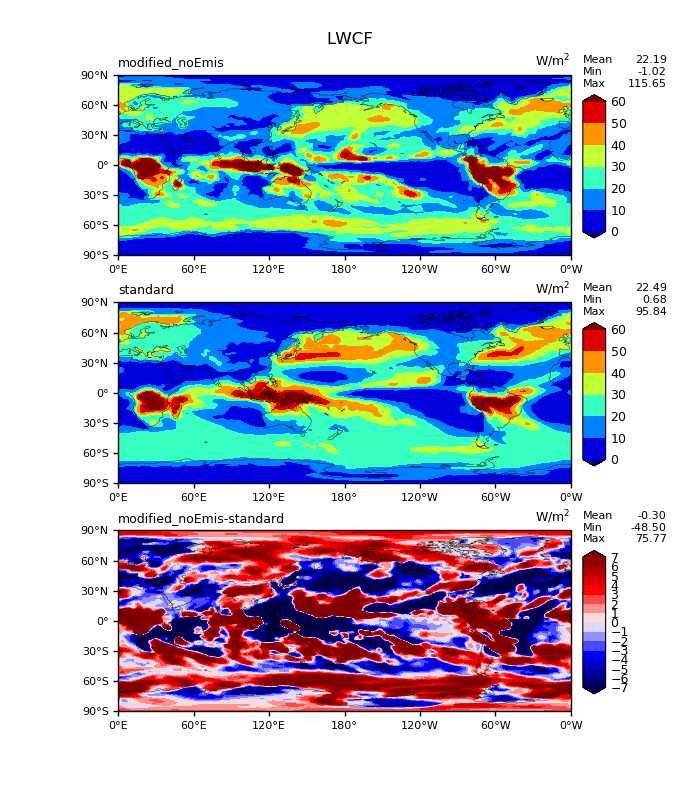
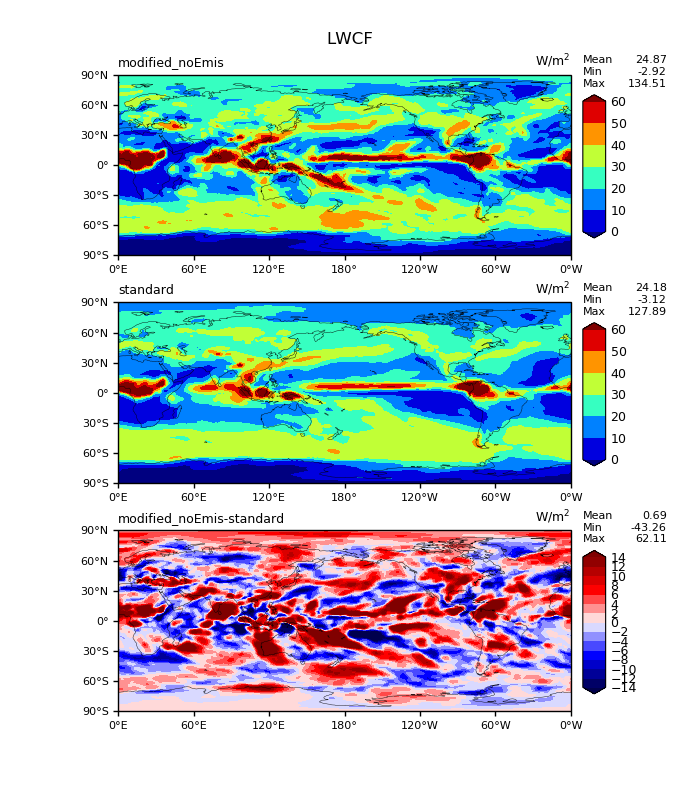
add monthly&seasonal switchs in get_climo.py

diff --git a/utils/get_climo.py b/utils/get_climo.py
@@ -21,84 +21,90 @@ def listToString(s):
 # The main program starts here.
 
 # Input 
-#caseid="E3SM_DECKv1b_H1.ne30"
-#monthly_data_path="./E3SM_DECKv1b_H1.ne30/remap_180x360"
-#caseid="E3SM_coupled_restart_20TR_Yr2000-emis_Scat.Year2000_2014"
-caseid="E3SMv2_offline_ICEFLAG5_noEmis"
+#caseid="E3SMv2_standard_PresSST_UMRadALLoff"
+caseid="E3SM_v2_UMRad_iceflag3_AMIP_ALLon"
 print(caseid)
 #monthly_data_path="/raid00/xianwen/E3SM_output/"+caseid+"/remap_180x360"
 monthly_data_path="/global/cscratch1/sd/xianwen/acme_scratch/cori-knl/"+caseid+"/remap_180x360/"
 #years=np.arange(0001,0004)
-years=np.array(["2000"])
+years=np.array(["0001"])
 #years=np.array(["2000","2001","2002","2003","2004","2005","2006","2007","2008","2009","2010","2011","2012","2013","2014"])
 # Output
 months_to_do=["01","02","03","04","05","06","07","08","09","10","11","12"]
 seasons_to_do=["ANN","DJF","MAM","JJA","SON"]
+do_monthly=True
+do_seasonal=True
 
 out_path=monthly_data_path+"../climo"
+
+if not os.path.exists(monthly_data_path):
+   print('PATH NOT FOUND: ', monthly_data_path)
+   exit()
 if not os.path.exists(out_path):
-     os.makedirs(out_path)
+   os.makedirs(out_path)
 
-# create list of all input files
-# Monthly climo
-for mon in months_to_do:
-    print("-- doing "+mon+"--")
-    list_file="list_"+mon+".txt"
-    if os.path.exists(list_file):
-        os.system("rm "+list_file)
-    for yr in years:
-        os.system("ls "+monthly_data_path+"/*cam.h0*"+str(yr)+"-"+mon+".nc|cat >>"+list_file)
-    #os.system("ls "+monthly_data_path+"/*"+mon+".nc >"+list_file)
-    with open(list_file) as f_obj:
-        lines=f_obj.readlines()
-    lists=listToString(lines)
-    
-    climo_file=caseid+"_climo_"+mon+".nc"
-    cmd="ncra "+lists+" "+out_path+"/"+climo_file
-    os.system(cmd)
-    os.system("mv "+list_file+" "+out_path+"/")
-# Seasonal and Annual climo
-for seasn in seasons_to_do:
-    print("-- doing "+seasn+"--")
-    list_file="list_"+seasn+".txt"
-    if seasn == "ANN":
-        mons_for_seasn=["01","02","03","04","05","06","07","08","09","10","11","12"]
-        if os.path.exists(list_file):
-            os.system("rm "+list_file)
-        for mons in mons_for_seasn:
-            os.system("ls "+out_path+"/*climo_"+mons+".nc|cat >>"+list_file)
-    elif seasn == "DJF":
-        mons_for_seasn=["12","01","02"]
-        if os.path.exists(list_file):
-            os.system("rm "+list_file)
-        for mons in mons_for_seasn:
-            os.system("ls "+out_path+"/*climo_"+mons+".nc|cat >>"+list_file)
-    elif seasn == "MAM":
-        mons_for_seasn=["03","04","05"]
-        if os.path.exists(list_file):
-            os.system("rm "+list_file)
-        for mons in mons_for_seasn:
-            os.system("ls "+out_path+"/*climo_"+mons+".nc|cat >>"+list_file)
-    elif seasn == "JJA":
-        mons_for_seasn=["06","07","08"]
-        if os.path.exists(list_file):
-            os.system("rm "+list_file)
-        for mons in mons_for_seasn:
-            os.system("ls "+out_path+"/*climo_"+mons+".nc|cat >>"+list_file)
-    elif seasn == "SON":
-        mons_for_seasn=["09","10","11"]
-        if os.path.exists(list_file):
-            os.system("rm "+list_file)
-        for mons in mons_for_seasn:
-            os.system("ls "+out_path+"/*climo_"+mons+".nc|cat >>"+list_file)
-
-    with open(list_file) as f_obj:
-        lines=f_obj.readlines()
-    lists=listToString(lines)
-    
-    climo_file=caseid+"_climo_"+seasn+".nc"
-    cmd="ncra "+lists+" "+out_path+"/"+climo_file
-    os.system(cmd)
-    os.system("mv "+list_file+" "+out_path+"/")
+if do_monthly:
+   # create list of all input files
+   # Monthly climo
+   for mon in months_to_do:
+       print("-- doing "+mon+"--")
+       list_file="list_"+mon+".txt"
+       if os.path.exists(list_file):
+           os.system("rm "+list_file)
+       for yr in years:
+           os.system("ls "+monthly_data_path+"/*cam.h0*"+str(yr)+"-"+mon+".nc|cat >>"+list_file)
+       #os.system("ls "+monthly_data_path+"/*"+mon+".nc >"+list_file)
+       with open(list_file) as f_obj:
+           lines=f_obj.readlines()
+       lists=listToString(lines)
+       
+       climo_file=caseid+"_climo_"+mon+".nc"
+       cmd="ncra "+lists+" "+out_path+"/"+climo_file
+       os.system(cmd)
+       os.system("mv "+list_file+" "+out_path+"/")
+if do_seasonal:
+   # Seasonal and Annual climo
+   for seasn in seasons_to_do:
+       print("-- doing "+seasn+"--")
+       list_file="list_"+seasn+".txt"
+       if seasn == "ANN":
+           mons_for_seasn=["01","02","03","04","05","06","07","08","09","10","11","12"]
+           if os.path.exists(list_file):
+               os.system("rm "+list_file)
+           for mons in mons_for_seasn:
+               os.system("ls "+out_path+"/*climo_"+mons+".nc|cat >>"+list_file)
+       elif seasn == "DJF":
+           mons_for_seasn=["12","01","02"]
+           if os.path.exists(list_file):
+               os.system("rm "+list_file)
+           for mons in mons_for_seasn:
+               os.system("ls "+out_path+"/*climo_"+mons+".nc|cat >>"+list_file)
+       elif seasn == "MAM":
+           mons_for_seasn=["03","04","05"]
+           if os.path.exists(list_file):
+               os.system("rm "+list_file)
+           for mons in mons_for_seasn:
+               os.system("ls "+out_path+"/*climo_"+mons+".nc|cat >>"+list_file)
+       elif seasn == "JJA":
+           mons_for_seasn=["06","07","08"]
+           if os.path.exists(list_file):
+               os.system("rm "+list_file)
+           for mons in mons_for_seasn:
+               os.system("ls "+out_path+"/*climo_"+mons+".nc|cat >>"+list_file)
+       elif seasn == "SON":
+           mons_for_seasn=["09","10","11"]
+           if os.path.exists(list_file):
+               os.system("rm "+list_file)
+           for mons in mons_for_seasn:
+               os.system("ls "+out_path+"/*climo_"+mons+".nc|cat >>"+list_file)
+   
+       with open(list_file) as f_obj:
+           lines=f_obj.readlines()
+       lists=listToString(lines)
+       
+       climo_file=caseid+"_climo_"+seasn+".nc"
+       cmd="ncra "+lists+" "+out_path+"/"+climo_file
+       os.system(cmd)
+       os.system("mv "+list_file+" "+out_path+"/")
 print("----- all finished -----")
 	

diff --git a/d1_lon_lat_contour_model_vs_model_sgl.py b/d1_lon_lat_contour_model_vs_model_sgl.py
@@ -24,14 +24,14 @@ from get_parameters import get_area_mean_min_max
 ctl_name="standard" #os.environ["ctl_name"]
 exp_name="modified_noEmis" #os.environ["exp_name"]
 fpath_ctl='/global/cscratch1/sd/xianwen/acme_scratch/cori-knl/E3SMv2_standard_PresSST_UMRadALLoff/climo/'
-fpath_exp='/global/cscratch1/sd/xianwen/acme_scratch/cori-knl/E3SMv2_UMRad_iceflag1_noEmis/remap_180x360/'
+fpath_exp='/global/cscratch1/sd/xianwen/acme_scratch/cori-knl/E3SM_v2_UMRad_iceflag3_AMIP_ALLon/climo/'
 
 #fpath_exp="../../E3SM_output/E3SM_coupled_restart_20TR_Yr2000-Scat.Year2000_2014/climo/"
  
 #f1=fpath_ctl+"E3SMv2_offline_ICEFLAG1_full2_noEmis_climo_ANN.nc"
 #f2=fpath_exp+"E3SMv2_offline_ICEFLAG1_full2_noEmis_climo_ANN.nc"
-f1=fpath_ctl+"E3SMv2_standard_PresSST_UMRadALLoff_climo_01.nc"
-f2=fpath_exp+"E3SMv2_UMRad_iceflag1_noEmis.cam.h0.0001-01.nc"
+f1=fpath_ctl+"E3SMv2_standard_PresSST_UMRadALLoff_climo_ANN.nc"
+f2=fpath_exp+"E3SM_v2_UMRad_iceflag3_AMIP_ALLon_climo_ANN.nc"
 #f2=fpath_exp+"E3SM_coupled_restart_20TR_Yr2000-Scat.Year2000_2014_climo_ANN.nc"
 
 #f1=fpath_ctl+"solar_TSIS_cesm211_standard-ETEST-f19_g17-ens1.cam.h0.0001-01.nc"
@@ -50,7 +50,7 @@ lev=file_ctl.variables["lev"]
 varnm="LWCF"
 #varnm_off="LWCF_OFF"  #offline computation
 units=r"W/m$^2$"
-figure_name="lat_lon_"+varnm+"_"+exp_name+"-"+ctl_name+"_ICEFLAG1_full2.png"
+figure_name="lat_lon_"+varnm+"_"+exp_name+"-"+ctl_name+"_ICEFLAG3_ANN.png"
 #figure_name="lat_lon_"+varnm+"500mb_"+exp_name+"-"+ctl_name+".png"
 
 #lev250=np.min(np.where(lev[:]>250.))
@@ -112,7 +112,7 @@ for i in range(0,3):
         #cnlevels=np.arange(0,80,8)
     else:
         #cnlevels=np.arange(-9,10,1.5)
-        cnlevels=np.arange(-7,8,1)
+        cnlevels=np.arange(-7,8,1)*2.
         #cnlevels=np.arange(-0.8,1.0,0.2)
         #cnlevels=np.arange(0.0,3.0,0.2)
         #cnlevels=np.array([-4,-3.5,-3,-2.5,-2,-1.5,-1.,-0.5,0.5,1.,1.5,2.,2.5,3.,3.5,4.]) #parameters["diff_levs"]
